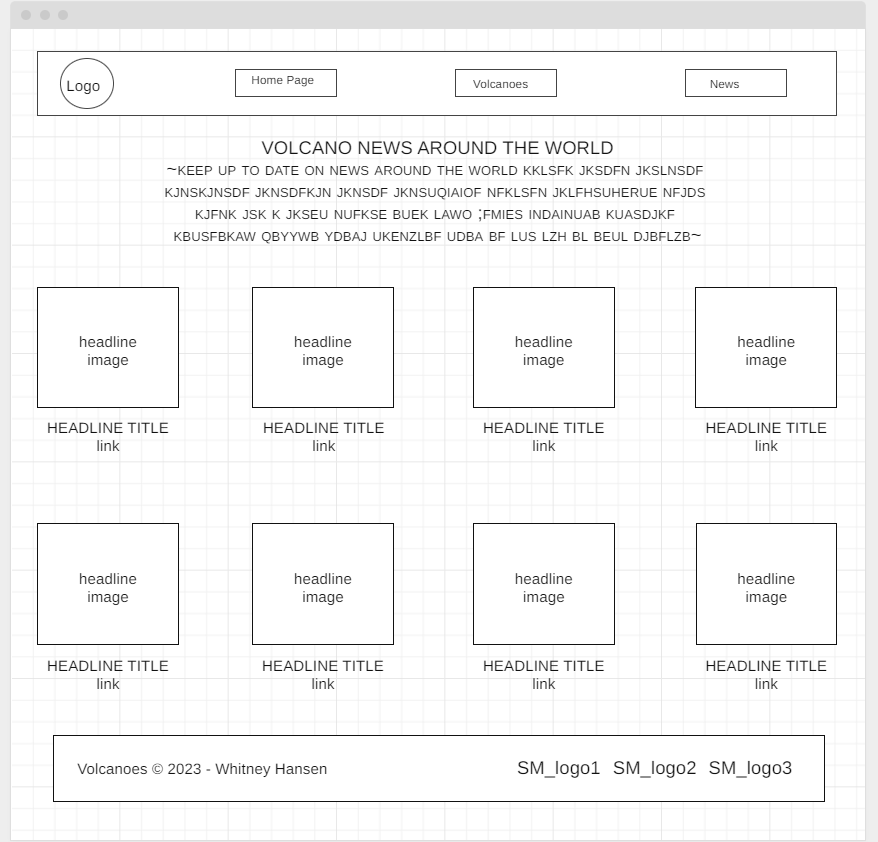
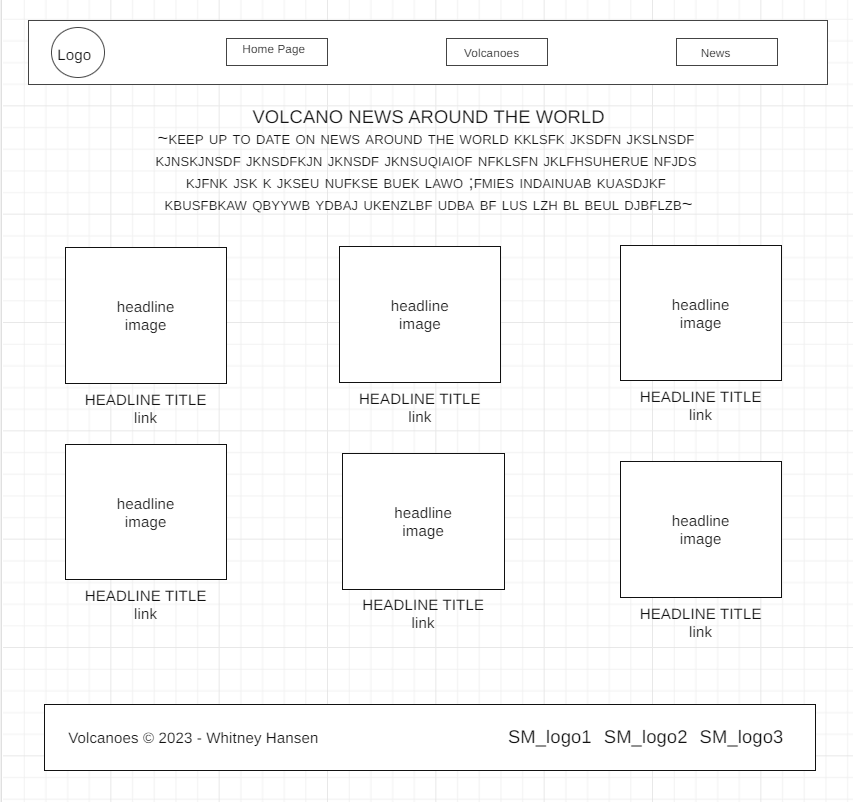
css and html updates

diff --git a/volcano/news.html b/volcano/news.html
@@ -22,33 +22,47 @@
         </header>
         <div class="opener">
             <h2>Volcano News Around the World</h2>
-            <p>Keep up to date on all of the major volcano news around the world! </p>
+            <p>Stay up-to-date with breaking news about volcanic eruptions, tracking the progression and impact of these awe-inspiring events. We cover both well-known volcanoes and those that might not receive as much media attention, ensuring a comprehensive coverage of global volcanic activity. From the towering stratovolcanoes to the mesmerizing lava flows and the mesmerizing volcanic landscapes, we bring you stories that capture the essence and power of these geological wonders. </p>
 
         </div>
+    <div id="contentid">
       <div class="section">
-        <img src="images/volcano1.jpg" alt="Image 1">
-        <p>Section 1</p>
+        <a href="https://www.foxweather.com/extreme-weather/helicopter-video-shows-alaskas-shishaldin-volcano-erupting-lava">
+            <img src="images/volcano1.jpg" alt="Image 1">
+            <p>Alaska Volcano, Shishaldin, spews ash and steam 40,000 feet into the air.</p>
+        </a>
       </div>
       <div class="section">
-        <img src="images/volcano2.jpg" alt="Image 2">
-        <p>Section 2</p>
+        <a href="https://www.cnn.com/2023/07/13/asia/new-zealand-whakaari-white-island-eruption-trial-intl-hnk/index.html">
+            <img src="images/volcano2.jpg" alt="Image 2">
+            <p>Tourists describe horror of 2019 White Island volcano eruption.</p>
+        </a>
       </div>
       <div class="section">
-        <img src="images/volcano3.jpg" alt="Image 3">
-        <p>Section 3</p>
+        <a href="https://weatherboy.com/usgs-raises-volcano-alert-level-8-u-s-volcanoes-now-being-monitored-for-eruption-action/">
+            <img src="images/volcano3.jpg" alt="Image 3">
+            <p>Eight U.S. Volcanoes Now Being Monitored for Eruption Action</p>
+        </a>
       </div>
       <div class="section">
-        <img src="images/volcano4.jpg" alt="Image 4">
-        <p>Section 4</p>
+        <a href="https://scitechdaily.com/200000-lightning-flashes-tongas-hunga-eruption-produced-the-most-intense-lightning-ever-recorded/">
+            <img src="images/volcano4.jpg" alt="Image 4">
+            <p>Tonga's Hunga Eruption Produced the Most Intense Lightning Ever Recorded</p>
+        </a>
       </div>
       <div class="section">
-        <img src="images/volcano5.jpg" alt="Image 5">
-        <p>Section 5</p>
+        <a href="https://abcnews.go.com/International/icelands-mount-fagradalsfjall-volcano-closed-due-health-hazards/story?id=101291719">
+            <img src="images/volcano5.jpg" alt="Image 5">
+            <p>Iceland's Mount Fagradalsfjall volcano closed due to health hazards from eruption</p>
+        </a>
       </div>
       <div class="section">
-        <img src="images/volcano6.jpg" alt="Image 6">
-        <p>Section 6</p>
+        <a href="https://www.livescience.com/planet-earth/volcanos/earths-newest-baby-volcano-is-painting-icelands-fagradalsfjall-region-with-incandescent-lava">
+            <img src="images/volcano6.jpg" alt="Image 6">
+            <p>An eruption in Iceland has opened a new 1.7 mile-long fissure</p>
+        </a>
       </div>
+    </div>
     
    
 </body>

diff --git a/volcano/styles/style.css b/volcano/styles/style.css
@@ -7,6 +7,12 @@
     max-width: 1600px;
 }
 
+#contentid {
+    display: flex;
+    flex-wrap: wrap;
+    justify-content: center; /* Center the sections within the container */
+    align-items: center;
+}
 header {
     background-color: #691E06;
     display: grid;
@@ -23,9 +29,9 @@ header {
     width: 100px;
 }
 #logo_link img {
-    max-width: 100%; /* Set the maximum width to fit its container */
-    height: auto; /* Preserve the image's aspect ratio */
-    width: 100px; /* Adjust the width as desired */
+    max-width: 100%; 
+    height: auto; 
+    width: 100px; 
 }
 
 nav {
@@ -98,10 +104,10 @@ footer .social img {
 }
 
 #smoke-msg h4 {
-    color: #CA5310;
+    color: #FBBA72;
 }
 #smoke-msg h1 {
-    color: #CA5310;
+    color: #FBBA72;
 }
 
 #smoke-img {
@@ -120,7 +126,7 @@ footer .social img {
 }
 .intro {
     margin: 50px;
-    color:#CA5310;
+    color:#FBBA72;
 }
 .carousel img {
         width: 150px; 
@@ -138,15 +144,16 @@ body {
 
   .section {
     width: 25%;
-    margin: 10px;
+    margin: 15px;
     display: inline-block;
     text-align: center;
     align-content: center;
     padding: 10px;
     box-shadow: 0 2px 4px #691E06;
     transition: box-shadow 0.3s;
-    background-color: white;
+    background-color: #FBBA72;
   }
+
   .section img {
     width: 200px;
     height: 200px;
@@ -160,12 +167,12 @@ body {
   }
 
   .opener h2 {
-    color: #691E06;
+    color: #FBBA72;
     text-align: center;
     font-family: "Space Grotesk", Helvetica, sans-serif;
   }
   .opener p {
-    color: #691E06;
+    color: #FBBA72;
     text-align: center;
     font-family: "Hahmlet", Helvetica, sans-serif;
   }
@@ -176,7 +183,7 @@ body {
     align-items: center;
     box-shadow: 0 0 5px #691E06;
     transition: box-shadow 0.3s;
-    background-color: #CA5310;
+    background-color: #FBBA72;
   }
 
   .vsection:nth-child(even) {
@@ -207,7 +214,7 @@ body {
     font-family: "Hahmlet", Helvetica, sans-serif;
     max-width: 60%;
     margin-left: 20px;
-    color: #FBBA72;
+    color: #691E06;
   }
   .vsection img {
     width: 500px;
@@ -220,6 +227,6 @@ body {
   }
   
 body {
-    background-color: #FBBA72;
+    background-color: #BB4D00;
     font-family: "Hahmlet", Helvetica, sans-serif;
 }
